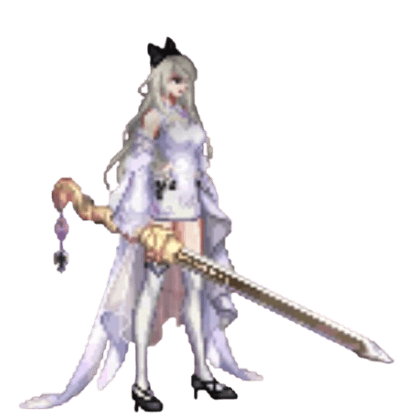
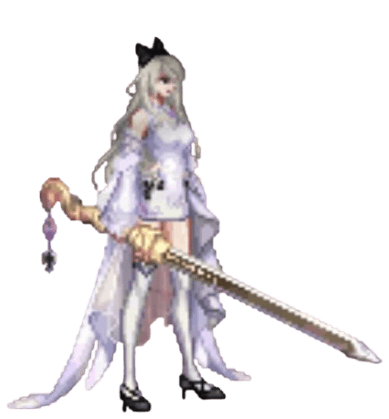
update

diff --git a/index.html b/index.html
@@ -415,8 +415,8 @@ button:active {
     }
     
     .profile-left img {
-        width: 100%
-        height: 210px
+        width: 100%;
+        height: 195px;
         object-fit: contain; 
         background-color: transparent;
     }
@@ -1035,7 +1035,7 @@ button:active {
         &lt;img src=&quot;HRI/Quervernunft.png&quot; alt=&quot;立绘&quot; loading=&quot;lazy&quot;&gt;
     &lt;/div&gt;
     &lt;div class=&quot;profile-right&quot;&gt;
-        &lt;div style=&quot;border-left: 4px solid #dcd8c0; padding-left: 15px; margin-bottom: 10px;&quot;&gt;
+        &lt;div style=&quot;border-left: 2px solid #dcd8c0; padding-left: 15px; margin-bottom: 10px;&quot;&gt;
             &lt;h1 style=&quot;margin: 0; font-size: 28px; color: #fff;&quot;&gt;Quervernunft&lt;/h1&gt;
         &lt;/div&gt;
         &lt;div class=&quot;info-row&quot;&gt;
